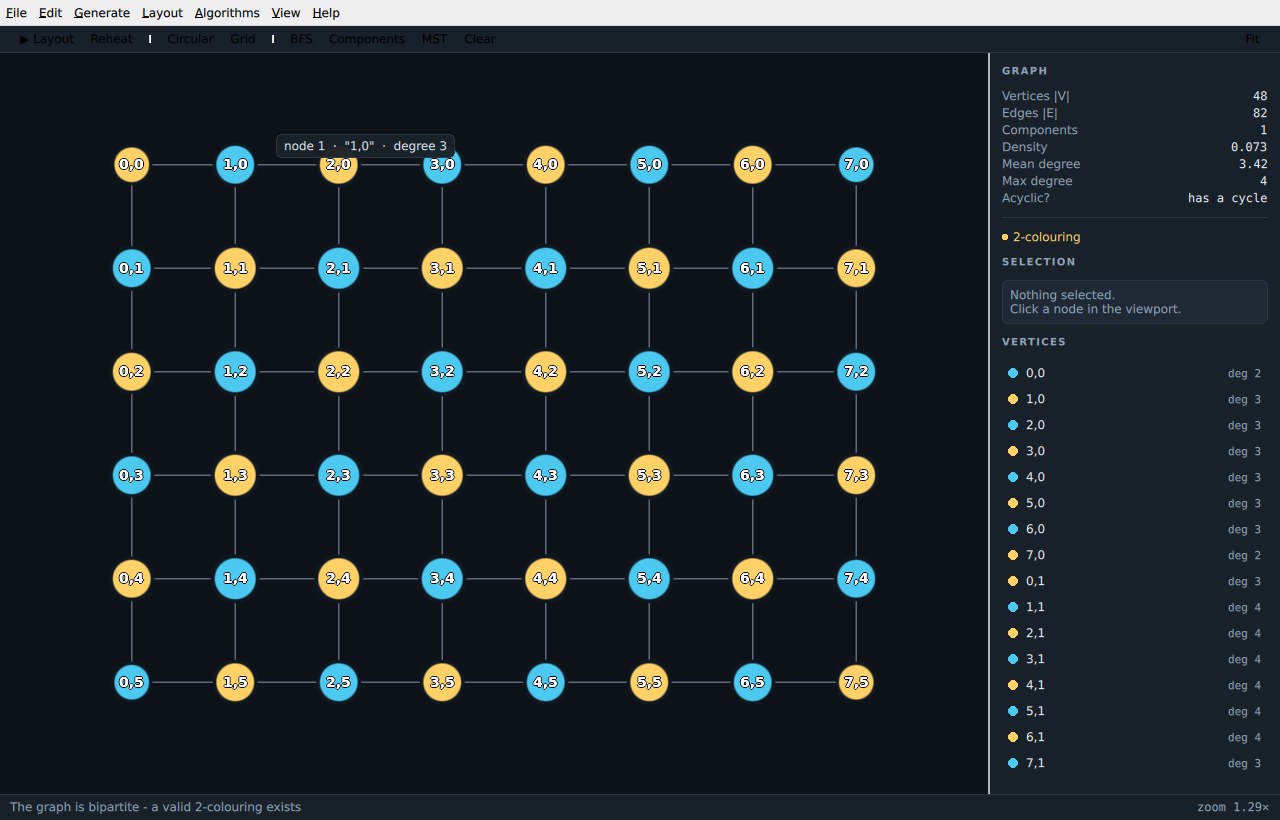
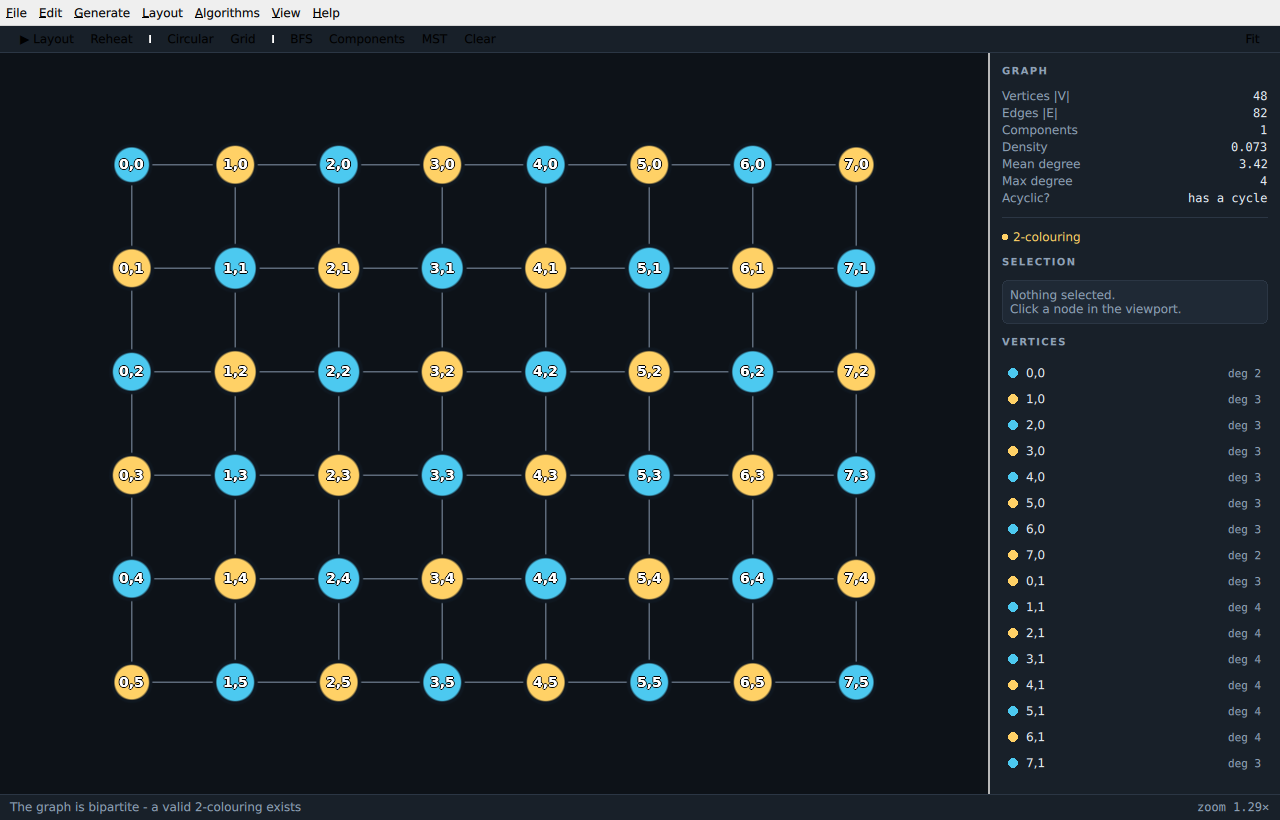
Fix vertically flipped OpenGL viewport
The framebuffer contents were rendered upside down relative to the Qt Quick
item they were presented in, so the OpenGL discs were mirrored while the QML
labels were not. Interacting with the viewport made this obvious: clicking a
node selected its mirror twin, and dragging one moved a different node in the
opposite direction.

An OpenGL framebuffer has its origin in the bottom left; a Qt Quick item counts
y downwards from the top left. QQuickFramebufferObject does not reconcile the
two by default, so with mirrorVertically left false, clip-space y = +1 landed at
the item's bottom edge. Set it to true so the y-down convention already used by
toWorld(), toItem(), nodeAt(), the QML label bindings and the orthographic
projection holds end to end.

This escaped the original verification because every graph it was checked
against - the Petersen graph, a circular layout, a regular grid - is symmetric
about the horizontal axis, so the mirrored discs landed exactly where the
un-mirrored ones belonged and the rendering looked correct. Verified this time
with a rooted tree, which is not: the root now draws at the top, dragging a node
tracks the cursor, wheel zoom holds its anchor point, and panning follows the
drag. Documentation screenshots regenerated, since the previous ones had
algorithm colours attached to mirror nodes.

Claude-Session: https://claude.ai/code/session_012vgTv5ubLev2MPEhwBuGbw

diff --git a/src/graphview.cpp b/src/graphview.cpp
@@ -7,10 +7,23 @@
 GraphView::GraphView(QQuickItem *parent)
     : QQuickFramebufferObject(parent)
 {
-    // Mirror the item vertically: an FBO's texture has its origin in the bottom
-    // left, whereas Qt Quick items count y downwards.  Qt already accounts for
-    // this, so all we do here is make sure the item repaints when it resizes.
-    setMirrorVertically(false);
+    // An OpenGL framebuffer has its origin in the BOTTOM left, while Qt Quick
+    // items count y downwards from the TOP left.  Left alone (the default,
+    // mirrorVertically == false) Qt hands the texture to the scene graph as-is,
+    // so clip-space y = +1 ends up at the item's *bottom* edge and everything
+    // the renderer draws appears upside down.
+    //
+    // Setting this to true presents the FBO with a top-left origin, which lets
+    // the whole rest of the class - toWorld(), toItem(), nodeAt(), and the
+    // y-down orthographic projection in GraphRenderer::synchronize() - share one
+    // consistent convention with Qt's item coordinates.
+    //
+    // This is easy to get wrong *and* easy to miss: a graph whose node positions
+    // happen to be symmetric about the horizontal axis (a circular layout, a
+    // regular grid, the Petersen graph) looks perfectly correct while flipped,
+    // because the mirrored discs land back on top of the un-mirrored ones.  Test
+    // orientation with something asymmetric, such as Generate > Tree.
+    setMirrorVertically(true);
     setTextureFollowsItemSize(true);
 }
 

diff --git a/README.md b/README.md
@@ -217,7 +217,33 @@ Two draw calls per frame, regardless of graph size:
   itself is cut out in the fragment shader from the distance to the quad centre,
   antialiased with `fwidth`, so circles stay perfectly smooth at any zoom.
 
-### 8. Re-skinning controls
+### 8. Framebuffer orientation, and how it hides from you
+
+An OpenGL framebuffer has its origin in the **bottom left**. A Qt Quick item
+counts y **downwards from the top left**. `QQuickFramebufferObject` does not
+reconcile those for you by default: with `mirrorVertically` left at its default
+`false`, clip-space y = +1 lands at the item's *bottom* edge, and everything the
+renderer draws comes out upside down.
+
+This project sets `setMirrorVertically(true)` so that one convention — y grows
+downwards, exactly like item coordinates — holds across `toWorld()`, `toItem()`,
+`nodeAt()`, the label positions in QML, and the projection matrix.
+
+The reason this gets its own section is that a vertical flip is remarkably good
+at hiding. Get it wrong and the OpenGL discs are mirrored while the QML labels
+are not — but if your test graph is **symmetric about the horizontal axis**, the
+mirrored discs land exactly on top of where the un-mirrored ones would be, and
+the picture looks perfect. A circular layout, a regular grid and the Petersen
+graph are all invariant this way. The bug only surfaces when you interact:
+clicking a node selects its mirror twin, and dragging one moves a different node
+in the opposite direction.
+
+Test orientation with something **asymmetric** — `Generate ▸ Tree` is the
+clearest — and confirm the root is at the top before trusting anything else:
+
+![A rooted tree, the asymmetric orientation check](docs/screenshot-tree.png)
+
+### 9. Re-skinning controls
 
 Qt Quick Controls' default *Basic* style is light. Every control exposes its
 chrome as a replaceable item, so `ParameterDialog.qml` assigns its own
@@ -254,6 +280,7 @@ Good next exercises, roughly in order of difficulty:
 * `qmllint` reports unresolved-type warnings inside `Viewport.qml` because Qt
   6.4's type registration does not describe `QQuickFramebufferObject` subclasses
   fully. The app runs correctly; the warnings are a tooling gap.
-* If the viewport ever renders upside down on your driver, the flip lives in one
-  place: the `ortho()` call in `GraphRenderer::synchronize()` deliberately
-  passes `bottom > top` so world *y* grows downwards like Qt's item coordinates.
+* Orientation is governed by `setMirrorVertically(true)` in the `GraphView`
+  constructor, working together with the y-down `ortho()` call in
+  `GraphRenderer::synchronize()`. Change one without the other and the viewport
+  renders upside down. See *Framebuffer orientation* above for why.
